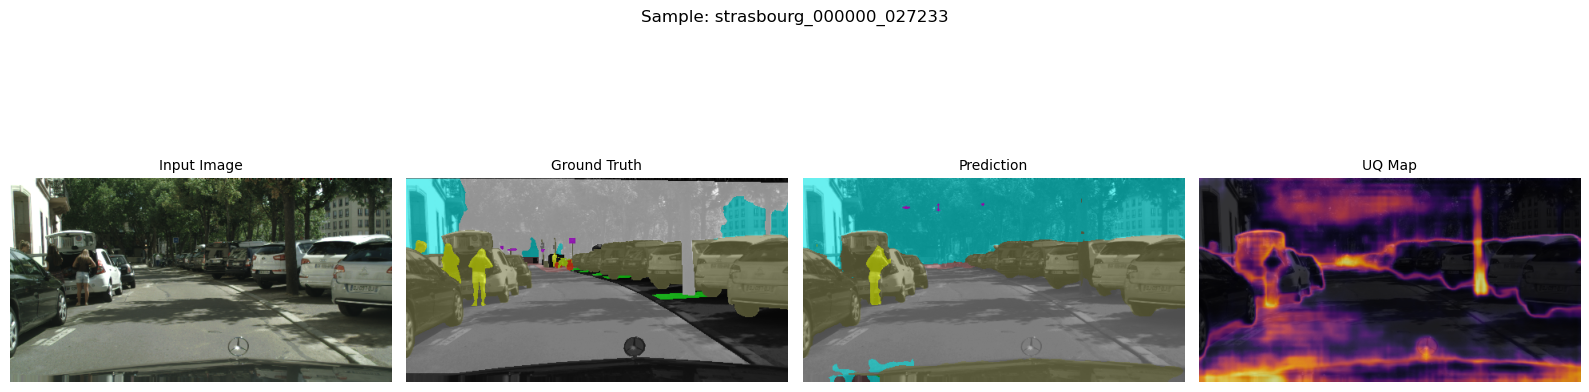
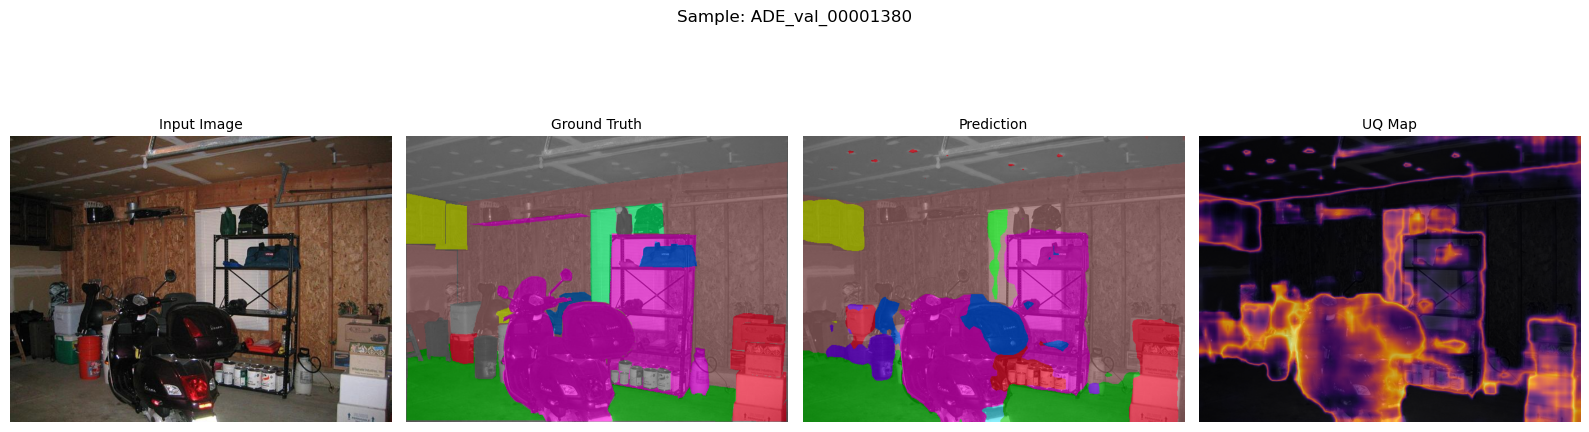
modified ade20k dataloader to read new prediction directories

diff --git a/datasets/ADE20K/ade20k_dataset_creation.py b/datasets/ADE20K/ade20k_dataset_creation.py
@@ -259,7 +259,7 @@ class ADE20K_CityscapesDataset(Dataset_Class):
         self.uq_map_path = self.uq_map_path.joinpath('semantic', self.uq_method, self.decomp)
         
         # Set prediction path
-        self.prediction_path = self.prediction_path.joinpath(self.model_ckpt, "predictions")
+        self.prediction_path = self.prediction_path.joinpath(self.model_ckpt, self.uq_method, "predictions")
         
         # Final validation that paths exist
         if not self.uq_map_path.exists():
@@ -437,7 +437,7 @@ class ADE20K_CityscapesDataset(Dataset_Class):
         img_count = len([f for f in os.listdir(self.image_path) if (f.endswith(".jpg") if not self.is_cityscapes else f.endswith(".npy"))])
         mask_count = len([f for f in os.listdir(self.mask_path) if (f.endswith(".png") if not self.is_cityscapes else f.endswith(".npy"))])
         pred_count = len([f for f in os.listdir(self.prediction_path) if f.endswith(".npy")])
-        uq_map_count = len([f for f in os.listdir(self.uq_map_path) if f.endswith(".npy")])
+        uq_map_count = len([f for f in os.listdir(self.uq_map_path) if (f.endswith(".npy") and not f.startswith("cityscapes"))])
         
         if img_count != mask_count:
             print(f"Warning: Number of images ({img_count}) does not match number of masks ({mask_count}).")
@@ -535,8 +535,8 @@ def main():
         'task' : 'semantic',
         'variation' : 'cityscapes',
         'model_noise' : 0,
-        'data_noise': '1_00',
-        'uq_method': 'dropout',
+        'data_noise': '0_00',
+        'uq_method': 'softmax',
         'decomp' : 'pu',
         'spatial' : None,
         'split_path' : None, #text_path,

diff --git a/evaluation/scripts/evaluate_auroc.py b/evaluation/scripts/evaluate_auroc.py
@@ -164,13 +164,13 @@ def parse_arguments() -> argparse.Namespace:
     # arctique: '/fast/AG_Kainmueller/vguarin/hovernext_trained_models/trained_on_cluster/uncertainty_arctique_v1-0-corrected_14/'
     # lidc: '/fast/AG_Kainmueller/data/ValUES/'
     # gta_cityscapes: '/fast/AG_Kainmueller/data/GTA_CityScapes_UQ/'
-    # ade20k: '/fast/AG_Kainmueller/data/UQ_maps/ADE20K/'
+    # ade20k_cityscapes: '/fast/AG_Kainmueller/data/UQ_maps/ADE20K/'
     parser.add_argument(
         '--label_path', type=str, help='Path to labels'
     )
     # arctique: '/fast/AG_Kainmueller/synth_unc_models/data/v1-0-variations/variations/'
     # gta_cityscapes: '/fast/AG_Kainmueller/data/GTA/'
-    # ade20k: '/fast/AG_Kainmueller/data/ADEChallengeData2016/'
+    # ade20k_cityscapes: '/fast/AG_Kainmueller/data/ADEChallengeData2016/'
     parser.add_argument(
         '--model_noise', type=int, default=0, help='Model noise level'
     )
